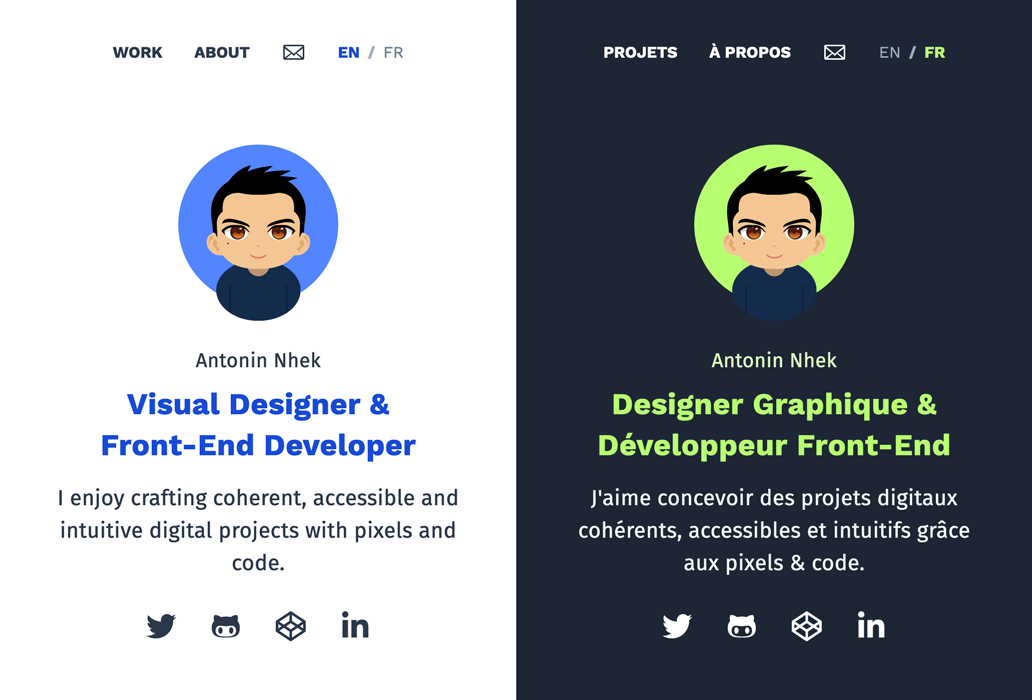
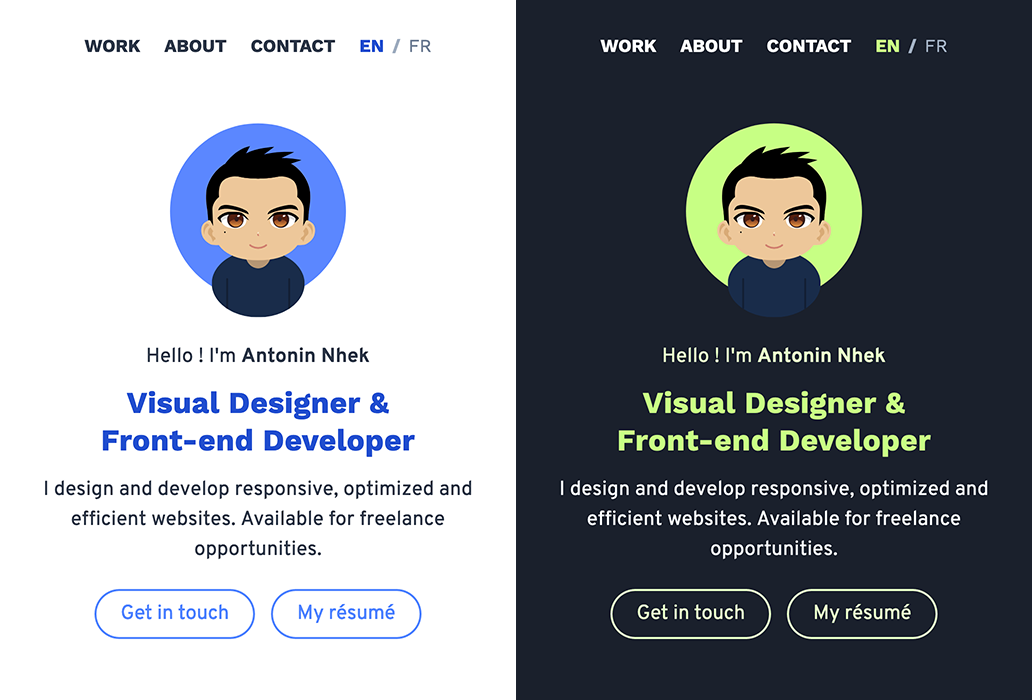
updated: portfo screenshot and styling.

diff --git a/src/components/about.js b/src/components/about.js
@@ -18,34 +18,9 @@ const About = () => {
         <p className="">
           <FormattedMessage id="about.text2" /><br /><br /><br />
         </p>
-        <div className="flex flex-col p-6 mb-1 bg-gray-200 rounded-lg sm:p-10 md:flex-row dark:bg-gray-800">
-          <ul className="w-full mr-10 text-xl list lg:w-1/2">
-            <li className="mb-4 text-xl font-bold text-gray-700 uppercase font-header dark:text-secondary">
-              <FormattedMessage id="about.interests.title" />
-            </li>
-            <li>
-              <MdKeyboardArrowRight/>
-              <FormattedMessage id="about.interests.1" />
-            </li>
-            <li>
-              <MdKeyboardArrowRight/>
-              <FormattedMessage id="about.interests.2" />
-            </li>
-            <li>
-              <MdKeyboardArrowRight/>
-              <FormattedMessage id="about.interests.3" />
-            </li>
-            <li>
-              <MdKeyboardArrowRight/>
-              <FormattedMessage id="about.interests.4" />
-            </li>
-            <li className="mb-6 md:mb-0">
-              <MdKeyboardArrowRight/>
-              <FormattedMessage id="about.interests.5" />
-            </li>
-          </ul>
+        <div className="flex flex-col p-6 mb-1 rounded-lg sm:p-10 md:flex-row dark:bg-gray-800">
           <ul className="w-full text-xl list lg:w-1/2">
-            <li className="mb-4 text-xl font-bold text-gray-700 uppercase font-header dark:text-secondary">
+            <li className="mb-4 text-xl font-bold uppercase text-primary font-header dark:text-secondary">
               <FormattedMessage id="about.personality.title" />
             </li>
             <li>
@@ -69,12 +44,32 @@ const About = () => {
               <FormattedMessage id="about.personality.5" />
             </li>
           </ul>
+          <ul className="w-full mr-10 text-xl list lg:w-1/2">
+            <li className="mb-4 text-xl font-bold uppercase text-primary font-header dark:text-secondary">
+              <FormattedMessage id="about.interests.title" />
+            </li>
+            <li>
+              <MdKeyboardArrowRight/>
+              <FormattedMessage id="about.interests.1" />
+            </li>
+            <li>
+              <MdKeyboardArrowRight/>
+              <FormattedMessage id="about.interests.2" />
+            </li>
+            <li>
+              <MdKeyboardArrowRight/>
+              <FormattedMessage id="about.interests.3" />
+            </li>
+            <li>
+              <MdKeyboardArrowRight/>
+              <FormattedMessage id="about.interests.4" />
+            </li>
+            <li className="mb-6 md:mb-0">
+              <MdKeyboardArrowRight/>
+              <FormattedMessage id="about.interests.5" />
+            </li>
+          </ul>
         </div>
-        <br /><br />
-        <p>
-          <FormattedMessage id="about.text3" />
-        </p>
-
       </div>
     </section>
   );

diff --git a/src/components/hero.js b/src/components/hero.js
@@ -11,30 +11,30 @@ const Hero = () => {
   const intl = useIntl();
 
   return (
-    <section className="flex flex-wrap max-w-md px-6 py-10 mx-auto sm:max-w-xl md:max-w-4xl lg:max-w-5xl md:py-20 lg:py-40">
+    <section className="flex flex-wrap max-w-md px-6 py-16 mx-auto sm:max-w-xl md:max-w-4xl lg:max-w-5xl md:py-24 lg:py-40">
       <div className="flex items-center justify-center w-full md:w-1/3">
-        <Nenderoidos className="w-40 transition duration-500 ease-in-out transform md:w-48 lg:w-56 hover:scale-110" alt="Antonin Nhek Nenderoid version"/>
+        <Nenderoidos className="w-40 transition duration-500 ease-in-out transform sm:w-44 md:w-48 lg:w-64 hover:scale-110" alt="Antonin Nhek Nenderoid version"/>
       </div>
       <div className="flex items-center mt-6 md:w-2/3 md:mt-0 md:pl-3 lg:pl-6">
         <div className="flex flex-col items-center text-primary dark:text-secondary md:items-start">
-          <h1 className="mb-2 text-xl text-center text-gray-800 font-body md:text-2xl lg:text-3xl dark:text-secondary_light">
+          <h1 className="mb-3 text-xl text-center text-gray-800 font-body md:text-2xl lg:text-2_5xl dark:text-secondary_light">
             <FormattedMessage id="hero.job_hi" /> <span className="font-bold"><FormattedMessage id="author" /></span>
           </h1>
-          <h2 className="mb-4 font-bold leading-tight text-center text-2_5xl md:text-left sm:text-3xl md:text-4xl lg:text-5xl">
+          <h2 className="mb-4 text-2xl font-bold leading-tight text-center md:text-left sm:text-3xl md:text-4xl lg:text-5xl">
             <FormattedMessage id="hero.job_design" /> &<br/> <FormattedMessage id="hero.job_dev" />
           </h2>
-          <h3 className="w-full mb-6 text-xl text-center text-gray-800 font-body dark:text-gray-100 md:text-left sm:text-1xl md:text-2xl md:max-w-md lg:max-w-xl">
+          <h3 className="w-full mb-6 text-xl text-center text-gray-800 font-body md:text-1xl lg:text-2xl dark:text-gray-100 md:text-left md:max-w-md lg:max-w-xl">
             <FormattedMessage id="hero.job_description" /> <span className=""><FormattedMessage id="hero.job_availability" /></span>
           </h3>
-          <div className="flex flex-col items-center md:flex-row">
+          <div className="flex flex-row items-center">
             <Button
               link="#contact"
-              style={ `mb-4 md:mb-0 md:mr-4` }
+              style={ `mb-4 mr-4` }
               text={<FormattedMessage id="global.sendMail" />}
             />
             <Button
               link={intl.formatMessage({ id: "global.resume" })}
-              style={ `mb-4 md:mb-0 md:mr-4` }
+              style={ `mb-4` }
               text={<FormattedMessage id="global.downloadResume" />}
             />
           </div>

diff --git a/src/components/footer.js b/src/components/footer.js
@@ -8,13 +8,13 @@ const Footer = () => {
 
   return (
     <footer className="px-4 py-20 text-center bg-white border-t border-gray-300 dark:border-gray-800 dark:bg-gray-900">
-      <h3 className="text-2xl font-semibold dark:text-white">
+      <h3 className="font-bold text-gray-800 uppercase text-1xl dark:text-white">
         <FormattedMessage id="footer.socialconnect" />
       </h3>
       <div className="flex justify-center py-5 mb-4">
         <Social value="light dark"/>
       </div>
-      <p className="text-lg text-gray-700 dark:text-gray-200">
+      <p className="text-lg text-gray-800 dark:text-gray-200">
         <FormattedMessage id="footer.info" /> <TiHeart className="inline align-baseline"/> Antonin Nhek © {new Date().getFullYear()} <br/>
         <FormattedMessage id="footer.powered" />{` `}<a className="light dark" href="https://reactjs.org/" title="ReactJS">React</a>,{` `}
         <a className="light dark" href="https://www.gatsbyjs.org">Gatsby</a> &{` `}

diff --git a/src/components/form.js b/src/components/form.js
@@ -4,7 +4,7 @@ import { FormattedMessage } from 'react-intl';
 const Form = () => {
 
   const blockStyle = "mb-6 md:mb-10";
-  const labelStyle = "dark:text-secondary uppercase text-gray-700 font-bold text-xl font-header ";
+  const labelStyle = "dark:text-secondary uppercase text-gray-800 font-bold text-xl font-header ";
   const inputStyle = "w-full px-3 py-3 mt-2 text-lg text-gray-800 dark:bg-white border rounded border-primary_light focus:border focus:border-primary focus:outline-none font-body bg-gray-100";
 
   return (

diff --git a/src/components/language.js b/src/components/language.js
@@ -8,7 +8,7 @@ const languageName = {
 
 const Language = () => {
   return (
-    <div className="flex justify-between sm:ml-2 sm:ml-4 md:ml-4 lg:ml-5">
+    <div className="flex justify-between sm:ml-2 sm:ml-6">
       <IntlContextConsumer>
         {({ languages, language: currentLocale }) =>
           languages.map(language => (

diff --git a/tailwind.config.js b/tailwind.config.js
@@ -20,6 +20,10 @@ module.exports = {
       screens: {
         dark: { raw: '(prefers-color-scheme: dark)' }
       },
+      spacing: {
+        '44': '11rem',
+        '60': '15rem',
+      },
       letterSpacing: {
         widy: '0.010em',
       },
